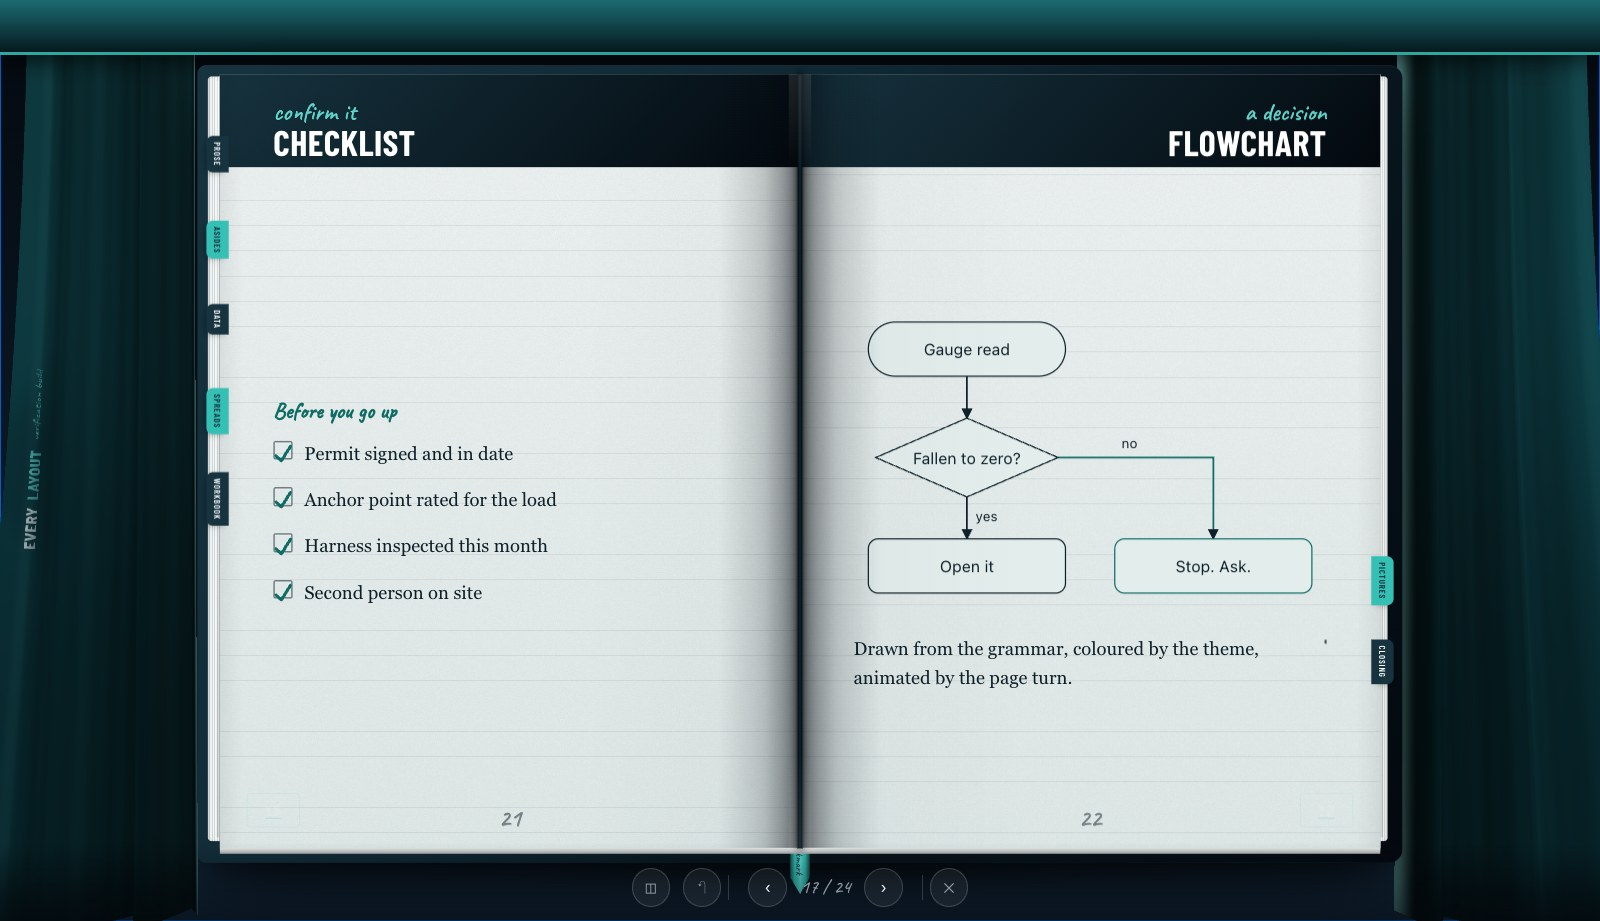
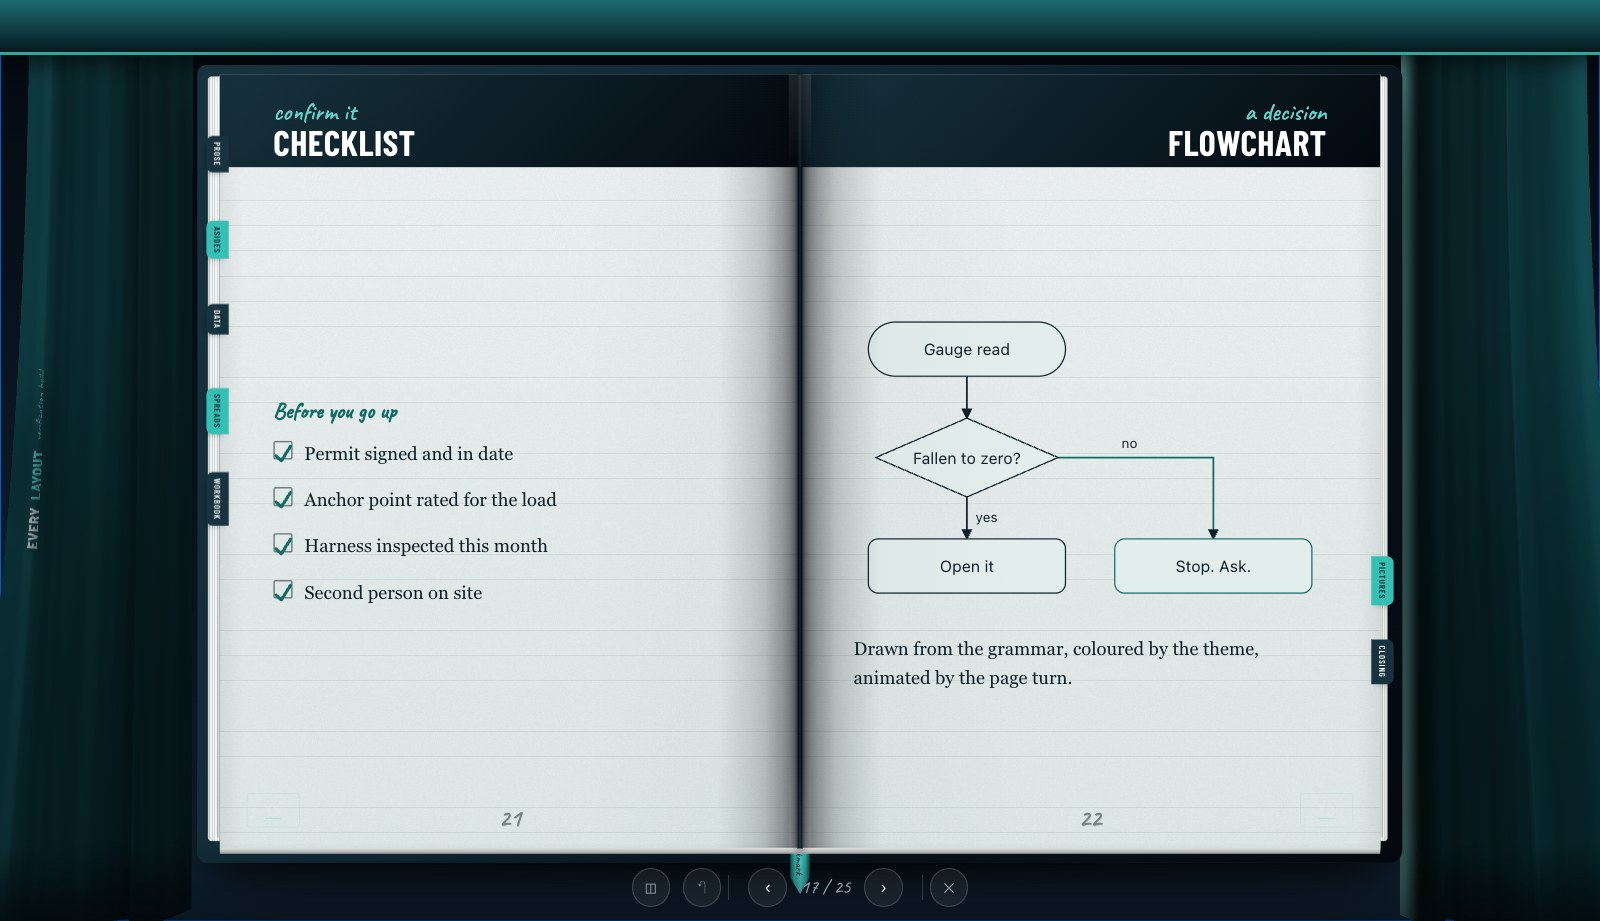
Three hand-drawn diagrams in the catalogue, with pictures to match
A grammar nobody has seen the output of is a document. The catalogue now carries
a fishbone, a layers stack and a quadrant alongside the flowchart already there
— drawn by hand from their own grammars, coloured only by theme tokens, and
tagged with the four class names, so they prove the whole contract rather than
describing it. The README gallery shows two of them.

Drawing them found a rule that was missing from the grammar README and cost a
round of confusion: the type sizes in these files are viewBox units, not pixels.
The SVG is stretched to the column, so a font-size of 11 inside a 480-unit
viewBox lands near 11px, and the same 11 inside a 600-unit viewBox lands near
8.6px — under the legibility floor, with nothing about the markup looking wrong.
Scale the type with the viewBox.

Both documents now state how many grammars ship, and a check holds each number
against the folder — 39 today. Proven by planting a wrong count in each.

diff --git a/scripts/check.ts b/scripts/check.ts
@@ -1706,6 +1706,36 @@ check('book: shipped grain filter resolves',
     undocumented.length === 0,
     `${undocumented.join(' ')} — the runtime animates these and the grammar never mentions them, ` +
     'so nothing drawn from it will use them')
+
+  // 5. THE INDEX AND THE FOLDER AGREE, BOTH WAYS. A grammar nothing links to is
+  // a page nobody finds, and a linked page that does not exist is a 404 in the
+  // middle of drawing a diagram. Both happen by writing one and forgetting the
+  // other, which is exactly the kind of drift a check exists for.
+  const grammarDir = join(ROOT, 'design', 'diagram-grammars')
+  const onDisk = (await readdir(grammarDir))
+    .filter((f) => f.startsWith('type-') && f.endsWith('.md'))
+  const linked = [...grammar.matchAll(/\(type-([a-z-]+)\.md\)/g)].map((m) => `type-${m[1]}.md`)
+  const unlinked = onDisk.filter((f) => !linked.includes(f))
+  const missing = [...new Set(linked)].filter((f) => !onDisk.includes(f))
+  check(`diagram: all ${onDisk.length} grammars are listed in the index`,
+    unlinked.length === 0,
+    `${unlinked.join(' ')} — written but linked from nowhere, so nobody drawing a diagram finds them`)
+  check('diagram: every type the index links to has a grammar',
+    missing.length === 0,
+    `${missing.join(' ')} — the index promises these and the folder does not have them`)
+
+  // 6. AND SKILL.md's COUNT IS THE REAL ONE. An assistant reads that number to
+  // decide whether the folder is worth opening, so a stale one either hides
+  // types or promises types that were never written.
+  for (const doc of ['SKILL.md', 'README.md']) {
+    const text = await readFile(join(ROOT, doc), 'utf8')
+    const claims = [...text.matchAll(/(?:\*\*|<b>)(\d+) (?:diagram )?grammars/g)].map((m) => Number(m[1]))
+    check(`diagram: ${doc}'s count matches the folder (${onDisk.length})`,
+      claims.length > 0 && claims.every((n) => n === onDisk.length),
+      claims.length === 0
+        ? `${doc} no longer states a grammar count — the check that keeps it honest has nothing to read`
+        : `${doc} says ${claims.join('/')} grammars, the folder has ${onDisk.length}`)
+  }
 }
 
 // ── every layout has a picture ──────────────────────────────────────────────
@@ -1947,6 +1977,36 @@ check('book: shipped grain filter resolves',
     turns >= 2 && places <= 2,
     `${turns} animated turns and ${places} instant placements in riffle() — ` +
     'a riffle wants a turn per step, not a run of cuts')
+}
+
+// ── a skip must never strand content half-faded ─────────────────────────────
+//
+// `End` means "show me the rest of this page". It used to be obeyed the instant
+// it was pressed, and both of the moments a reader is most likely to press it
+// were broken:
+//
+//   DURING a turn — the tweens it started belonged to the OUTGOING spread's
+//   context, which is reverted the moment the turn lands. Whatever they were
+//   animating stopped where it was: measured at opacity 0.1969, permanently, on
+//   a fishbone whose labels were present in the DOM and invisible on the page.
+//
+//   JUST AFTER one — a second timeline layered over the arrival timeline still
+//   in flight, both owning the same targets, and the loser stopped mid-fade.
+//
+// Entrance animation must FAIL VISIBLE. This failed invisible, and it took four
+// photographs of a "broken" diagram before the diagram turned out to be fine.
+{
+  const runtime = await readFile(join(ROOT, 'src', 'runtime', 'book.ts'), 'utf8')
+  const body = /function finishSteps\(\)[\s\S]*?\n  \}/.exec(runtime)?.[0] ?? ''
+  check('skip: a skip pressed mid-turn is held, not thrown away',
+    /if \(turning\(\)\) \{ heldIntent = 'finish'/.test(body),
+    'End acts while the leaf is in the air — its tweens die with the outgoing context')
+  check('skip: the arriving spread spends a held skip',
+    /heldIntent === 'finish'/.test(runtime.replace(body, '')),
+    'the intent is held and never consumed, so pressing skip mid-turn does nothing at all')
+  check('skip: it completes the arrival timeline before starting its own',
+    /revealTl\?\.progress\(1\)/.test(body),
+    'a second timeline is layered over one still running — whatever they share stops mid-fade')
 }
 
 console.log(`\n  ${passed} passed, ${failed} failed\n`)

diff --git a/content/every-layout.md b/content/every-layout.md
@@ -286,6 +286,130 @@ Drawn from the grammar, coloured by the theme, animated by the page turn.
 
 ---
 
+> and effect
+
+## Fishbone
+
+:::diagram fishbone
+<svg viewBox="-8 20 630 296" role="img" aria-label="Why the permit was issued late">
+  <defs>
+    <marker id="fb" viewBox="0 0 8 8" refX="7" refY="4"
+            markerWidth="6" markerHeight="6" orient="auto">
+      <path d="M0 0 L8 4 L0 8 z" fill="currentColor"/>
+    </marker>
+  </defs>
+  <g fill="none" stroke="currentColor" stroke-width="1.6">
+    <path class="dg-link" d="M20 160 L430 160" marker-end="url(#fb)"/>
+    <path class="dg-link" d="M170 160 L100 40"/>
+    <path class="dg-link" d="M330 160 L260 40"/>
+    <path class="dg-link" stroke="var(--accent-ink)" d="M240 160 L170 280"/>
+    <path class="dg-link" d="M390 160 L320 280"/>
+    <g stroke-width="1.2">
+      <path class="dg-link" d="M135 100 L89 100"/>
+      <path class="dg-link" d="M295 100 L249 100"/>
+      <path class="dg-link" stroke="var(--accent-ink)" d="M205 220 L159 220"/>
+      <path class="dg-link" d="M355 220 L309 220"/>
+    </g>
+  </g>
+  <rect class="dg-node" x="440" y="138" width="170" height="44" rx="8"
+        fill="var(--paper-2)" stroke="currentColor"/>
+  <g class="dg-label" fill="currentColor">
+    <g font-size="15" text-anchor="middle">
+      <text x="100" y="31">People</text>
+      <text x="260" y="31">Process</text>
+      <text x="170" y="299" fill="var(--accent-ink)">Equipment</text>
+      <text x="320" y="299">Records</text>
+    </g>
+    <g font-size="13" text-anchor="end" fill="var(--ink-soft)">
+      <text x="85" y="104">one signatory</text>
+      <text x="245" y="104">no cut-off time</text>
+      <text x="155" y="224" fill="var(--accent-ink)">gauge unreadable</text>
+      <text x="305" y="224">register out of date</text>
+    </g>
+    <text x="525" y="166" font-size="16" text-anchor="middle">Permit issued late</text>
+  </g>
+</svg>
+:::
+
+One bone in the accent: the cause the investigation actually confirmed.
+
+---
+
+> what rests on what
+
+## Layers
+
+:::diagram layers
+<svg viewBox="80 18 480 224" role="img" aria-label="What a permit rests on">
+  <g stroke="currentColor" stroke-width="1.3">
+    <rect class="dg-node" x="90" y="26" width="460" height="50" rx="6" fill="var(--paper)"/>
+    <rect class="dg-node" x="90" y="77" width="460" height="50" fill="var(--paper-2)"/>
+    <rect class="dg-node" x="90" y="128" width="460" height="50" fill="var(--paper-2)"
+          stroke="var(--accent-ink)"/>
+    <rect class="dg-node" x="90" y="179" width="460" height="50" rx="6" fill="var(--paper-2)"/>
+  </g>
+  <g class="dg-label" font-size="13" fill="currentColor">
+    <text x="110" y="56">The signature</text>
+    <text x="110" y="107">The checks that were done</text>
+    <text x="110" y="158" fill="var(--accent-ink)">The isolation that made them safe</text>
+    <text x="110" y="209">The drawing everyone trusted</text>
+    <g font-size="10" text-anchor="end" fill="var(--ink-soft)">
+      <text x="530" y="56">last</text>
+      <text x="530" y="209">first</text>
+    </g>
+  </g>
+</svg>
+:::
+
+Bottom is the foundation, and nobody has to be told.
+
+---
+
+> where things sit
+
+## Quadrant
+
+:::diagram quadrant
+<svg viewBox="60 14 420 300" role="img" aria-label="Findings by likelihood and severity">
+  <g stroke="var(--ink-soft)" stroke-width="1">
+    <path class="dg-link" d="M90 292 L450 292"/>
+    <path class="dg-link" d="M90 292 L90 32"/>
+    <path class="dg-link" d="M270 292 L270 32"/>
+    <path class="dg-link" d="M90 162 L450 162"/>
+  </g>
+  <g class="dg-node" fill="currentColor">
+    <circle cx="150" cy="238" r="6"/>
+    <circle cx="196" cy="212" r="6"/>
+    <circle cx="336" cy="222" r="6"/>
+    <circle cx="152" cy="104" r="6"/>
+    <circle cx="358" cy="80" r="6" fill="var(--accent-ink)"/>
+    <circle cx="392" cy="118" r="6" fill="var(--accent-ink)"/>
+  </g>
+  <g class="dg-label" font-size="11" fill="currentColor">
+    <text x="162" y="242">labelling</text>
+    <text x="208" y="216">signage</text>
+    <text x="348" y="226">housekeeping</text>
+    <text x="164" y="108">relief valve</text>
+    <text x="370" y="84" fill="var(--accent-ink)">isolation</text>
+    <text x="404" y="122" fill="var(--accent-ink)">gas detection</text>
+    <g font-size="10" fill="var(--ink-soft)">
+      <text x="96" y="308">rare</text>
+      <text x="450" y="308" text-anchor="end">often</text>
+      <text x="80" y="292" text-anchor="end">minor</text>
+      <text x="80" y="40" text-anchor="end">severe</text>
+      <text x="100" y="46">plan for it</text>
+      <text x="440" y="46" text-anchor="end">act now</text>
+      <text x="100" y="284">note it</text>
+      <text x="440" y="284" text-anchor="end">tidy it up</text>
+    </g>
+  </g>
+</svg>
+:::
+
+Four corners, four verdicts — and the accent marks the corner that cannot wait.
+
+---
+
 > in this order
 
 ## Steps

diff --git a/README.md b/README.md
@@ -270,6 +270,14 @@ material.
 <td><b>Treated artwork.</b> Run a photograph through the Ink Studio and it reads as drawn on the page — the ruled lines stop where the ink covers them.</td>
 <td><b>A statement page</b> — one sentence, the largest type in the book, and the silence around it doing the work.</td>
 </tr>
+<tr>
+<td><img src="docs/screenshots/diagram-fishbone.jpg" alt="A fishbone root-cause diagram, one bone picked out in the accent colour"></td>
+<td><img src="docs/screenshots/diagram-quadrant.jpg" alt="A quadrant plot with all four corners named and two items in the accent colour"></td>
+</tr>
+<tr>
+<td><b>A fishbone</b>, drawn by hand from its grammar and animated by the four class names — the spine and bones draw themselves, the effect box lands, the labels follow.</td>
+<td><b>A quadrant</b> where the corner names <i>are</i> the recommendation. <b>39 diagram grammars</b> ship with the kit; the runtime knows none of them by name.</td>
+</tr>
 </table>
 
 ### It is a WORKBOOK, not just a book
@@ -341,7 +349,7 @@ nothing.
 
 <div align="center">
 
-<img src="docs/banner/stack.svg" width="850" alt="The stack: a Markdown file goes through prep and build and comes out as one book.html. Four packages build a book; three ride inside it. 199 checks passing, 22 page layouts, 1 file delivered, 0 servers needed, 100% offline.">
+<img src="docs/banner/stack.svg" width="850" alt="The stack: a Markdown file goes through prep and build and comes out as one book.html. Four packages build a book; three ride inside it. 206 checks passing, 22 page layouts, 1 file delivered, 0 servers needed, 100% offline.">
 
 </div>
 
@@ -355,7 +363,7 @@ A built book is one file. The tool that builds it is nearly as lean:
 | Fonts | subset and embedded; a book needs no network |
 
 Every number on that card is measured on this commit, not rounded up for the
-graphic: `199` is what `node scripts/check.ts` prints, `22` is the length of
+graphic: `206` is what `node scripts/check.ts` prints, `22` is the length of
 `LAYOUTS` in `src/layout.ts` with all seventeen proved reachable by
 `scripts/verify.ts`, and `1` is the entire point of the project.
 

diff --git a/SKILL.md b/SKILL.md
@@ -434,10 +434,12 @@ SVG and put it in the block**:
 ````
 
 The layout rules live in [`design/diagram-grammars/`](design/diagram-grammars/)
-— one short file per type, adapted from
+— **39 grammars, one short file per type**, adapted from
 [diagram-design](https://github.com/cathrynlavery/diagram-design) (MIT). **Read
-only the one you are drawing.** Each gives the geometry, the numbers, and the
-anti-patterns worth naming.
+only the one you are drawing.** Each gives what it is best for, what it is *not*
+for, the geometry, the numbers, and the anti-patterns worth naming. The
+[index](design/diagram-grammars/README.md) groups them: sequence and process,
+hierarchy, comparison, cause and effect, quantity, systems and data.
 
 Two things are enforced rather than requested:
 
